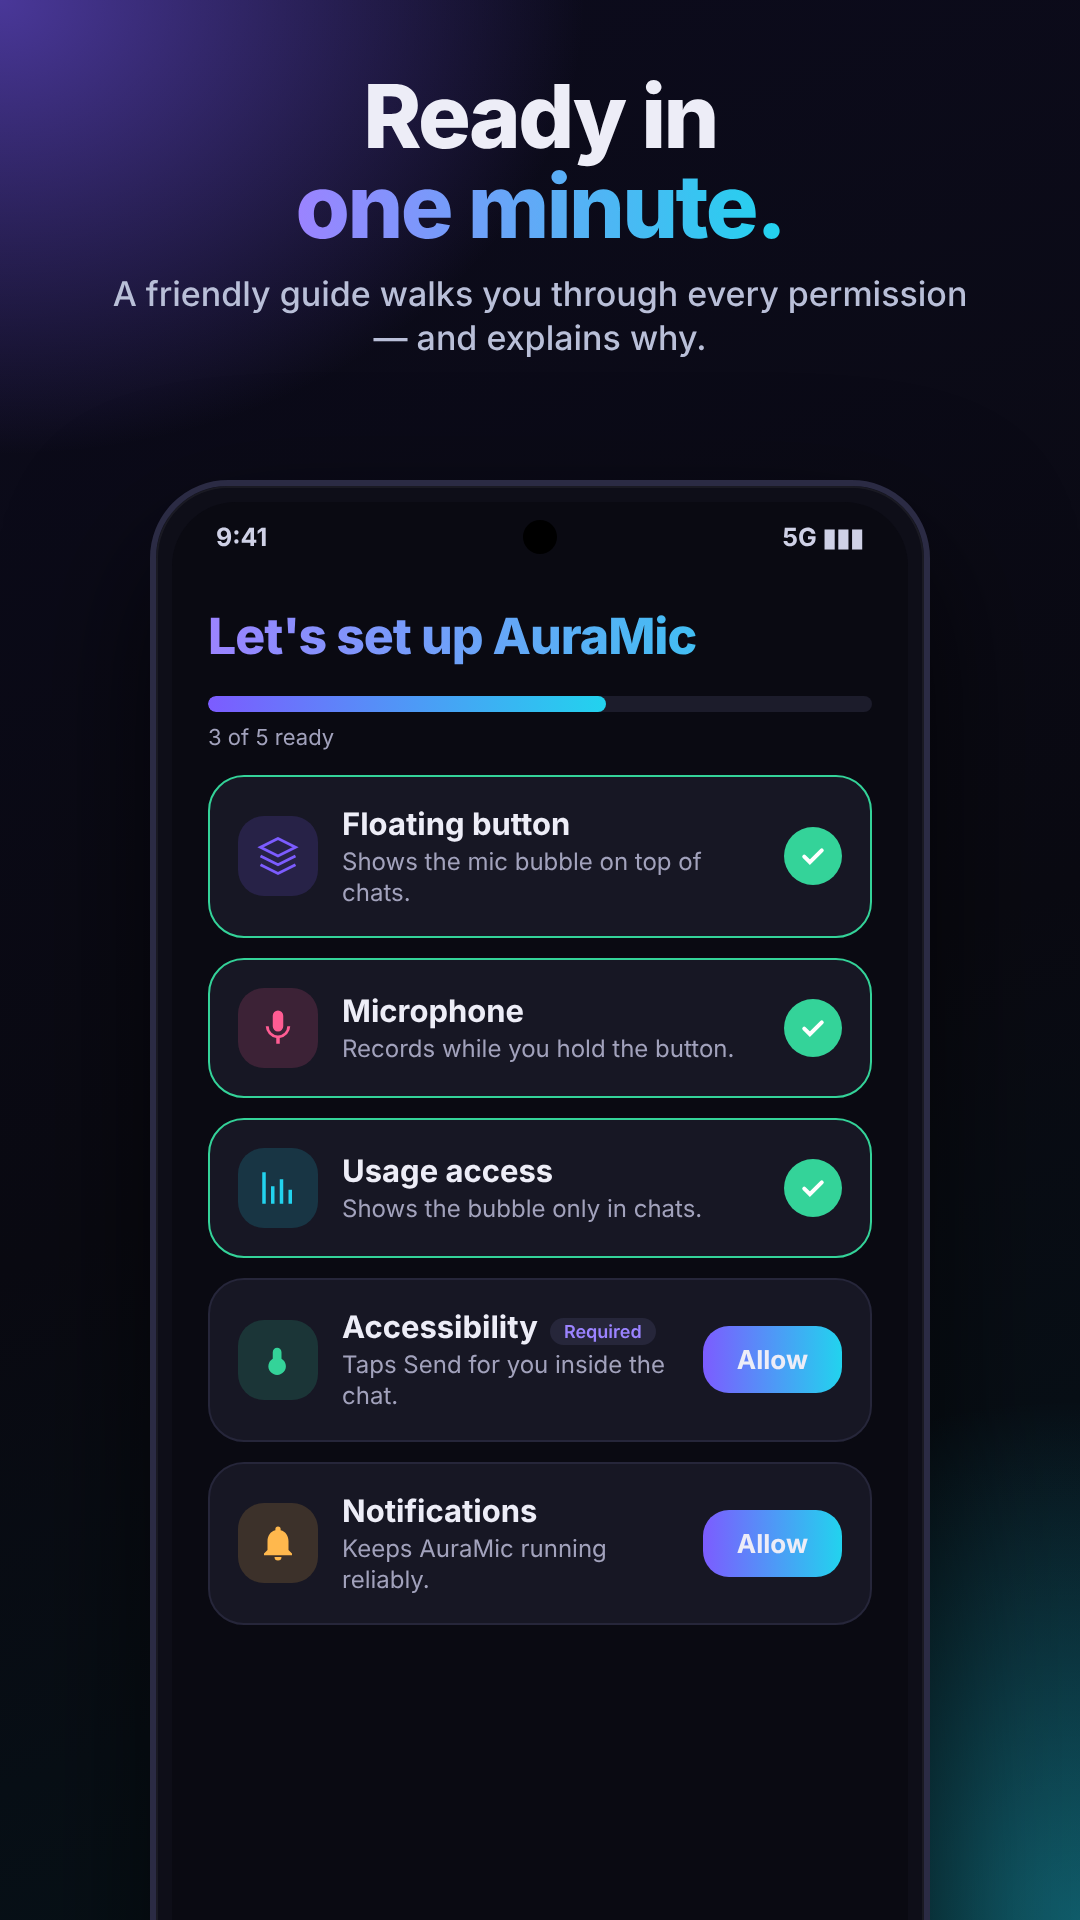
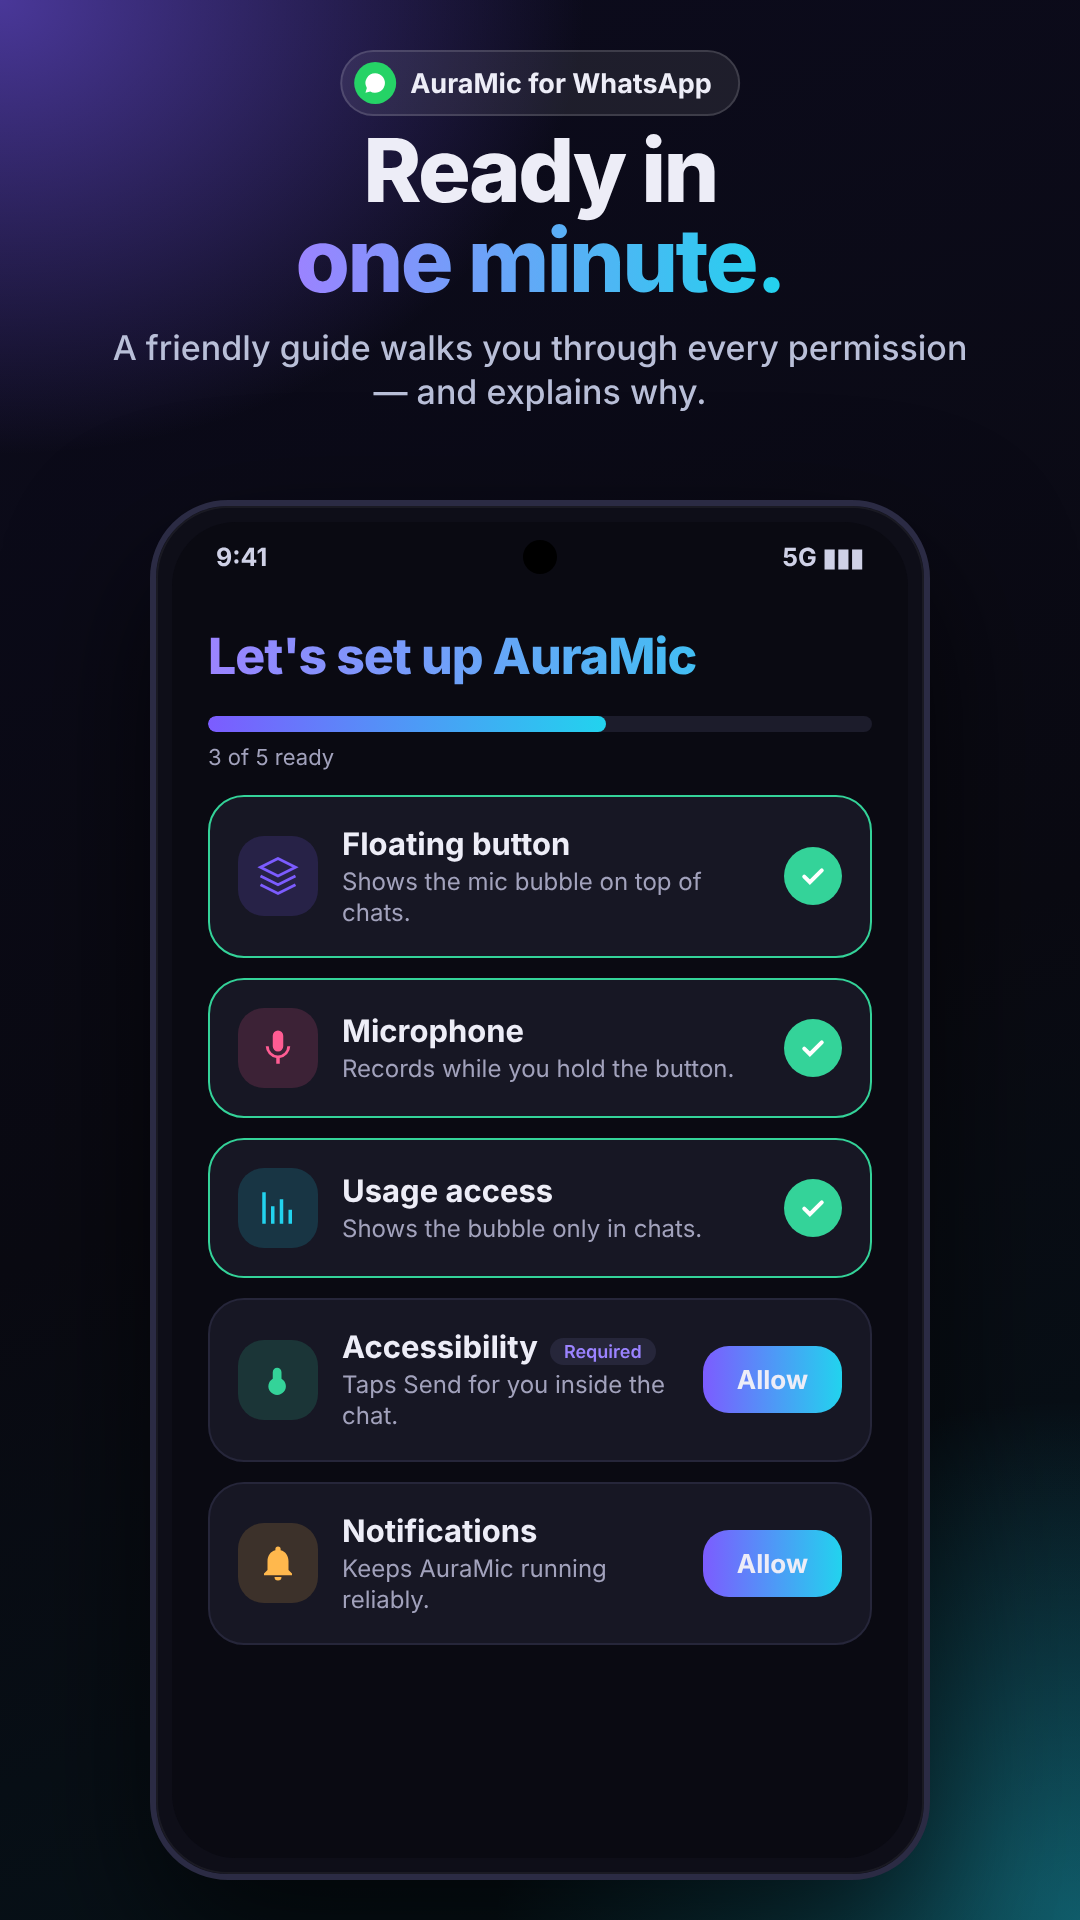
Play screenshots: WhatsApp-style chat mock-ups with AuraMic mic on the voice button, 'for WhatsApp' tag, full-height phone
Claude-Session: https://claude.ai/code/session_01HuFzeFbapjoqzK2GJRaigU

diff --git a/AuraMic/play_store_assets/screenshots/screens.html b/AuraMic/play_store_assets/screenshots/screens.html
@@ -4,7 +4,7 @@
 <!--
   Eight Play Store screenshot scenes, 1080x1920 each. Open screens.html#1 ... #8 in a browser, or run
   ../generate_assets.py to render all of them to PNG. Pure HTML/CSS/JS - edit freely.
-  The chat UI is a generic messaging mock-up (no third-party branding).
+  The chat UI is an original messaging mock-up in a WhatsApp-like dark style (no third-party logo or artwork).
 -->
 <style>
   :root{--v:#7C5CFF;--v2:#9B83FF;--c:#22D3EE;--pink:#FF5C93;--mint:#34D399;--bg:#0A0A12;--s1:#12121C;--s2:#171724;--s3:#1E1E2D;--line:#26263A;--t:#EDEDF7;--mut:#A2A2BC}
@@ -16,11 +16,11 @@
      radial-gradient(900px 700px at 0% 0%, rgba(124,92,255,.55), transparent 65%),
      radial-gradient(900px 800px at 100% 100%, rgba(34,211,238,.38), transparent 65%),
      linear-gradient(160deg,#0C0B1D,#0A0A12 55%,#06141A)}
-  .cap{position:absolute;left:60px;right:60px;top:72px;text-align:center}
+  .cap{position:absolute;left:60px;right:60px;top:126px;text-align:center}
   .cap h2{font-size:88px;line-height:1.02;font-weight:800;letter-spacing:-2.6px}
   .cap h2 span{background:linear-gradient(90deg,#9B83FF,#22D3EE);-webkit-background-clip:text;background-clip:text;color:transparent}
   .cap p{margin:20px auto 0;font-size:34px;line-height:1.3;color:#b9bfd8;font-weight:500;max-width:880px}
-  .phone{position:absolute;left:150px;top:480px;width:780px;height:1700px;border-radius:78px;background:#0E0E18;border:6px solid #2b2b44;
+  .phone{position:absolute;left:150px;top:500px;width:780px;height:1380px;border-radius:78px;background:#0E0E18;border:6px solid #2b2b44;
     box-shadow:0 60px 140px rgba(0,0,0,.65),0 0 0 2px rgba(255,255,255,.05) inset}
   .screen{position:absolute;inset:16px;border-radius:64px;background:var(--bg);overflow:hidden}
   .sb{height:70px;display:flex;justify-content:space-between;align-items:center;padding:0 44px;font-size:25px;font-weight:700;color:#cfd1e6}
@@ -82,25 +82,58 @@
   .step{flex:1;text-align:center;border-radius:34px;background:var(--s2);border:2px solid var(--line);padding:28px 10px}
   .step .bubble{position:relative;width:110px;height:110px;margin:0 auto 22px}
   .step b{font-size:27px;display:block}.step small{font-size:21px;color:var(--mut)}
+
+  /* "for WhatsApp" tag */
+  .for{position:absolute;left:50%;top:50px;transform:translateX(-50%);display:flex;align-items:center;gap:14px;padding:10px 26px 10px 12px;border-radius:99px;background:rgba(255,255,255,.08);border:2px solid rgba(255,255,255,.14);font-size:27px;font-weight:700;white-space:nowrap}
+  .for i{display:grid;place-items:center;width:42px;height:42px;border-radius:50%;background:#25D366}
+  /* WhatsApp-style dark chat */
+  .wa{position:absolute;left:0;right:0;top:70px;bottom:0;background-color:#0B141A;background-image:radial-gradient(rgba(255,255,255,.045) 2.5px,transparent 3.5px),radial-gradient(rgba(255,255,255,.03) 2px,transparent 3px);background-size:54px 54px,54px 54px;background-position:0 0,27px 27px}
+  .wa-top{height:122px;background:#1F2C34;display:flex;align-items:center;gap:14px;padding:0 22px}
+  .wa-top .av{width:72px;height:72px;border-radius:50%;background:linear-gradient(135deg,#6B7C85,#3B4A54);display:grid;place-items:center;font-weight:800;font-size:30px}
+  .wa-top .nm{flex:1}.wa-top b{font-size:31px;display:block}.wa-top small{font-size:22px;color:#8696A0}
+  .wa-top .ic{display:flex;gap:30px;align-items:center}
+  .wa-body{padding:26px 22px;display:flex;flex-direction:column;gap:16px}
+  .wm{max-width:480px;padding:16px 22px 14px;border-radius:24px 24px 24px 6px;background:#202C33;font-size:28px;line-height:1.35;position:relative}
+  .wm.me{align-self:flex-end;border-radius:24px 24px 6px 24px;background:#005C4B}
+  .wm small{display:block;text-align:right;font-size:19px;color:#8fa3ad;margin-top:4px}
+  .wvn{align-self:flex-end;display:flex;align-items:center;gap:14px;padding:16px 20px 12px;border-radius:24px 24px 6px 24px;background:#005C4B;width:500px;flex-wrap:wrap}
+  .wvn .av2{width:64px;height:64px;border-radius:50%;background:linear-gradient(135deg,#6B7C85,#3B4A54);flex:none}
+  .wvn .play{width:0;height:0;border-left:24px solid #fff;border-top:15px solid transparent;border-bottom:15px solid transparent}
+  .wvn .bars{display:flex;gap:4px;align-items:center;height:52px;flex:1}.wvn .bars i{display:block;width:5px;border-radius:3px;background:#a9d8cd}
+  .wvn .meta{width:100%;display:flex;justify-content:space-between;font-size:19px;color:#a9d8cd}
+  .wa-comp{position:absolute;left:18px;right:18px;bottom:40px;height:100px;display:flex;gap:14px;align-items:center}
+  .wa-in{flex:1;height:100px;border-radius:50px;background:#1F2C34;display:flex;align-items:center;gap:22px;padding:0 28px;color:#8696A0;font-size:29px}
+  .wa-in span{flex:1}
+  .wa-mic{width:100px;height:100px;border-radius:50%;background:#00A884;flex:none;display:grid;place-items:center}
+  .wa-rec{flex:1;height:100px;border-radius:50px;background:#1F2C34;display:flex;align-items:center;gap:18px;padding:0 30px;font-size:28px;font-weight:600;white-space:nowrap}
+  .wa-rec .rd{width:20px;height:20px;border-radius:50%;background:#FF4D6D}
+  .wa-rec .mut{color:#8696A0;font-weight:500;font-size:26px}
+  .auramic{position:absolute;width:100px;height:100px;border-radius:50%;background:linear-gradient(135deg,var(--v),var(--c));display:grid;place-items:center;box-shadow:0 10px 30px rgba(124,92,255,.5)}
+  .auramic::after{content:"";position:absolute;inset:0;border-radius:50%;background:radial-gradient(circle at 32% 25%,rgba(255,255,255,.35),transparent 60%)}
+  .auramic svg{position:relative;z-index:2}
+  .auramic.rec{background:linear-gradient(135deg,var(--v),var(--pink));transform:scale(1.2);box-shadow:0 14px 44px rgba(255,92,147,.55)}
+  .auramic .ring{inset:-24px}.auramic .ring.r2{inset:-50px}
+  .tag{position:absolute;display:flex;align-items:center;gap:12px;padding:14px 26px;border-radius:99px;background:rgba(16,16,24,.95);border:2px solid #2b2b44;font-size:25px;font-weight:700;white-space:nowrap;box-shadow:0 14px 40px rgba(0,0,0,.5)}
 </style></head>
 <body>
 
 <!-- ============== 1. HOLD TO RECORD ============== -->
 <section class="scene" id="s1"><div class="bgfx"></div>
-  <div class="cap"><h2>Hold. Speak.<br><span>Release.</span></h2><p>A floating mic that lives on top of your chats — only when you need it.</p></div>
+  <div class="cap"><h2>Hold. Speak.<br><span>Release.</span></h2><p>The AuraMic mic sits right on WhatsApp's voice button. Hold, speak, let go.</p></div>
   <div class="phone"><div class="screen"><div class="notch"></div>
-    <div class="sb"><span>9:41</span><span>5G ▮▮▮</span></div>
-    <div class="chat-top"><div class="av">A</div><div><b>Aarav</b><small>online</small></div></div>
-    <div class="chat-body">
-      <div class="m">Hey! Can you send me the details?</div>
-      <div class="m me">Sure — recording a voice note now 🎙</div>
-      <div class="m">Great, I'm on the train, noisy as always 😅</div>
-    </div>
-    <div class="composer">Message</div>
-    <div class="pill" style="left:92px;top:1000px"><span class="rd"></span><b>0:07</b><span class="wv" id="wv1"></span><span class="mut">◀ Slide to cancel</span></div>
-    <div class="bubble rec" style="left:470px;top:1130px"><div class="ring r3"></div><div class="ring r2"></div><div class="ring"></div>
-      <div class="disc"><svg width="70" height="70" viewBox="0 0 24 24" fill="#fff"><path d="M12 14a3 3 0 0 0 3-3V5a3 3 0 0 0-6 0v6a3 3 0 0 0 3 3zm5.3-3a5.3 5.3 0 0 1-10.6 0H5a7 7 0 0 0 6 6.72V21h2v-3.28A7 7 0 0 0 19 11z"/></svg></div></div>
-  </div></div>
+    <div class="sb" style="position:relative;z-index:3"><span>9:41</span><span>5G ▮▮▮</span></div>
+    <div class="wa"><div class="wa-top"><svg width="34" height="34" viewBox="0 0 24 24" fill="none" stroke="#E9EDEF" stroke-width="2.4" stroke-linecap="round" stroke-linejoin="round"><path d="M15 5l-7 7 7 7"/></svg><div class="av">A</div><div class="nm"><b>Aarav</b><small>online</small></div><div class="ic"><svg width="38" height="38" viewBox="0 0 24 24" fill="#E9EDEF"><path d="M4 7a2 2 0 0 1 2-2h8a2 2 0 0 1 2 2v3l5-3v10l-5-3v3a2 2 0 0 1-2 2H6a2 2 0 0 1-2-2z"/></svg><svg width="36" height="36" viewBox="0 0 24 24" fill="#E9EDEF"><path d="M6.6 10.8a15 15 0 0 0 6.6 6.6l2.2-2.2a1 1 0 0 1 1-.25 11 11 0 0 0 3.5.56 1 1 0 0 1 1 1V20a1 1 0 0 1-1 1A17 17 0 0 1 3 4a1 1 0 0 1 1-1h3.5a1 1 0 0 1 1 1c0 1.2.2 2.4.56 3.5a1 1 0 0 1-.25 1z"/></svg><svg width="32" height="32" viewBox="0 0 24 24" fill="#E9EDEF"><circle cx="12" cy="5" r="2"/><circle cx="12" cy="12" r="2"/><circle cx="12" cy="19" r="2"/></svg></div></div>
+      <div class="wa-body">
+        <div class="wm">Good morning! 👋<small>9:12</small></div>
+        <div class="wm me">Morning! Did the client reply?<small>9:13 ✓✓</small></div>
+        <div class="wm">Yes, call me when you reach.<small>9:30</small></div>
+        <div class="wm">Hey! Can you send me the details?<small>9:40</small></div>
+        <div class="wm me">Sure, sending a voice note now 🎙<small>9:40 ✓✓</small></div>
+        <div class="wm">Great, I'm on the train, noisy as always 😅<small>9:41</small></div>
+      </div>
+      <div class="wa-comp"><div class="wa-rec"><span class="rd"></span><b>0:07</b><span class="wv" id="wv1"></span><span class="mut">◀ Slide to cancel</span></div><div class="wa-mic"></div>
+        <div class="auramic rec" style="right:22px;top:0"><div class="ring r2"></div><div class="ring"></div><svg width="52" height="52" viewBox="0 0 24 24" fill="#fff"><path d="M12 14a3 3 0 0 0 3-3V5a3 3 0 0 0-6 0v6a3 3 0 0 0 3 3zm5.3-3a5.3 5.3 0 0 1-10.6 0H5a7 7 0 0 0 6 6.72V21h2v-3.28A7 7 0 0 0 19 11z"/></svg></div></div>
+    </div></div></div>
 </section>
 
 <!-- ============== 2. NOISE GONE ============== -->
@@ -130,20 +163,22 @@
 
 <!-- ============== 3. AUTO SEND ============== -->
 <section class="scene" id="s3"><div class="bgfx"></div>
-  <div class="cap"><h2>Sent for you.<br><span>Zero extra taps.</span></h2><p>AuraMic picks the chat and taps Send — you never leave the conversation.</p></div>
+  <div class="cap"><h2>Sent for you.<br><span>Zero extra taps.</span></h2><p>AuraMic picks the chat and taps Send, so you never leave the conversation.</p></div>
   <div class="phone"><div class="screen"><div class="notch"></div>
-    <div class="sb"><span>9:41</span><span>5G ▮▮▮</span></div>
-    <div class="chat-top"><div class="av">A</div><div><b>Aarav</b><small>online</small></div></div>
-    <div class="chat-body">
-      <div class="m">Hey! Can you send me the details?</div>
-      <div class="vn"><div class="play"></div><div class="bars" id="vb3"></div><em>0:07</em></div>
-      <div class="ticks">✓✓ Delivered</div>
-      <div class="m">Crystal clear, thanks! 🙌</div>
-    </div>
-    <div class="composer">Message</div>
-    <div class="pill" style="left:290px;top:1096px"><span style="color:#34D399;font-size:34px;line-height:1">✓</span><b>Sent!</b></div>
-    <div class="bubble" style="left:560px;top:1190px"><div class="disc" style="background:linear-gradient(135deg,#34D399,#10B981);box-shadow:0 20px 60px rgba(52,211,153,.5)"><svg width="70" height="70" viewBox="0 0 24 24" fill="none" stroke="#fff" stroke-width="3" stroke-linecap="round" stroke-linejoin="round"><path d="M5 12.5l4.5 4.5L19 7.5"/></svg></div></div>
-  </div></div>
+    <div class="sb" style="position:relative;z-index:3"><span>9:41</span><span>5G ▮▮▮</span></div>
+    <div class="wa"><div class="wa-top"><svg width="34" height="34" viewBox="0 0 24 24" fill="none" stroke="#E9EDEF" stroke-width="2.4" stroke-linecap="round" stroke-linejoin="round"><path d="M15 5l-7 7 7 7"/></svg><div class="av">A</div><div class="nm"><b>Aarav</b><small>online</small></div><div class="ic"><svg width="38" height="38" viewBox="0 0 24 24" fill="#E9EDEF"><path d="M4 7a2 2 0 0 1 2-2h8a2 2 0 0 1 2 2v3l5-3v10l-5-3v3a2 2 0 0 1-2 2H6a2 2 0 0 1-2-2z"/></svg><svg width="36" height="36" viewBox="0 0 24 24" fill="#E9EDEF"><path d="M6.6 10.8a15 15 0 0 0 6.6 6.6l2.2-2.2a1 1 0 0 1 1-.25 11 11 0 0 0 3.5.56 1 1 0 0 1 1 1V20a1 1 0 0 1-1 1A17 17 0 0 1 3 4a1 1 0 0 1 1-1h3.5a1 1 0 0 1 1 1c0 1.2.2 2.4.56 3.5a1 1 0 0 1-.25 1z"/></svg><svg width="32" height="32" viewBox="0 0 24 24" fill="#E9EDEF"><circle cx="12" cy="5" r="2"/><circle cx="12" cy="12" r="2"/><circle cx="12" cy="19" r="2"/></svg></div></div>
+      <div class="wa-body">
+        <div class="wm">Good morning! 👋<small>9:12</small></div>
+        <div class="wm me">Morning! Did the client reply?<small>9:13 ✓✓</small></div>
+        <div class="wm">Yes, call me when you reach.<small>9:30</small></div>
+        <div class="wm">Hey! Can you send me the details?<small>9:40</small></div>
+        <div class="wvn"><div class="av2"></div><div class="play"></div><div class="bars" id="vb3"></div><div class="meta"><span>0:07</span><span>9:41 <span style="color:#53BDEB">✓✓</span></span></div></div>
+        <div class="wm">Crystal clear, thanks! 🙌<small>9:41</small></div>
+      </div>
+      <div class="tag" style="left:50%;transform:translateX(-50%);bottom:190px"><span style="color:#34D399;font-size:30px;line-height:1">✓</span> Voice note sent</div>
+      <div class="wa-comp"><div class="wa-in"><svg width="40" height="40" viewBox="0 0 24 24" fill="none" stroke="#8696A0" stroke-width="2"><circle cx="12" cy="12" r="9"/><path d="M8 14a4.5 4.5 0 0 0 8 0M9 9.5h.01M15 9.5h.01" stroke-linecap="round"/></svg><span>Message</span><svg width="38" height="38" viewBox="0 0 24 24" fill="none" stroke="#8696A0" stroke-width="2" stroke-linecap="round"><path d="M16.5 7.5l-7.8 7.8a2.5 2.5 0 0 0 3.5 3.5l8-8a4.5 4.5 0 0 0-6.4-6.4l-8 8a6.5 6.5 0 0 0 9.2 9.2"/></svg><svg width="40" height="40" viewBox="0 0 24 24" fill="none" stroke="#8696A0" stroke-width="2"><path d="M4 8h3l1.5-2h7L17 8h3v11H4z"/><circle cx="12" cy="13" r="3.5"/></svg></div><div class="wa-mic"></div>
+        <div class="auramic" style="right:0;top:0"><svg width="52" height="52" viewBox="0 0 24 24" fill="#fff"><path d="M12 14a3 3 0 0 0 3-3V5a3 3 0 0 0-6 0v6a3 3 0 0 0 3 3zm5.3-3a5.3 5.3 0 0 1-10.6 0H5a7 7 0 0 0 6 6.72V21h2v-3.28A7 7 0 0 0 19 11z"/></svg></div></div>
+    </div></div></div>
 </section>
 
 <!-- ============== 4. PRIVACY ============== -->
@@ -232,12 +267,17 @@
         <div class="row" style="padding:22px 0;border-bottom:2px solid var(--line)"><div class="badge" style="background:rgba(52,211,153,.18)"><svg viewBox="0 0 24 24" fill="#34D399"><path d="M12 3a9 9 0 0 0-7.7 13.6L3 21l4.5-1.2A9 9 0 1 0 12 3z"/></svg></div><div style="flex:1"><div class="t">WhatsApp</div><div class="d">Hold to record · release to send</div></div><div class="ok" style="width:70px;border-radius:40px;height:42px;background:var(--v)"></div></div>
         <div class="row" style="padding:22px 0"><div class="badge" style="background:rgba(52,211,153,.18)"><svg viewBox="0 0 24 24" fill="#34D399"><path d="M12 3a9 9 0 0 0-7.7 13.6L3 21l4.5-1.2A9 9 0 1 0 12 3z"/></svg></div><div style="flex:1"><div class="t">WhatsApp Business</div><div class="d">Hold to record · release to send</div></div><div class="ok" style="width:70px;border-radius:40px;height:42px;background:var(--v)"></div></div>
       </div>
+      <div class="card" style="margin-top:22px;padding:26px"><div class="t" style="font-size:28px;margin-bottom:18px">Right on WhatsApp's voice button</div>
+        <div style="position:relative;height:100px;display:flex;gap:14px;align-items:center"><div class="wa-in" style="background:#1F2C34;height:100px"><svg width="40" height="40" viewBox="0 0 24 24" fill="none" stroke="#8696A0" stroke-width="2"><circle cx="12" cy="12" r="9"/><path d="M8 14a4.5 4.5 0 0 0 8 0M9 9.5h.01M15 9.5h.01" stroke-linecap="round"/></svg><span>Message</span><svg width="38" height="38" viewBox="0 0 24 24" fill="none" stroke="#8696A0" stroke-width="2" stroke-linecap="round"><path d="M16.5 7.5l-7.8 7.8a2.5 2.5 0 0 0 3.5 3.5l8-8a4.5 4.5 0 0 0-6.4-6.4l-8 8a6.5 6.5 0 0 0 9.2 9.2"/></svg><svg width="40" height="40" viewBox="0 0 24 24" fill="none" stroke="#8696A0" stroke-width="2"><path d="M4 8h3l1.5-2h7L17 8h3v11H4z"/><circle cx="12" cy="13" r="3.5"/></svg></div><div class="wa-mic" style="visibility:hidden"></div>
+          <div class="auramic" style="right:0;top:0"><svg width="52" height="52" viewBox="0 0 24 24" fill="#fff"><path d="M12 14a3 3 0 0 0 3-3V5a3 3 0 0 0-6 0v6a3 3 0 0 0 3 3zm5.3-3a5.3 5.3 0 0 1-10.6 0H5a7 7 0 0 0 6 6.72V21h2v-3.28A7 7 0 0 0 19 11z"/></svg></div></div>
+        <div class="d" style="font-size:24px;margin-top:16px">Tap for a hint · hold to record · slide left to cancel</div></div>
       <div class="card" style="margin-top:22px"><div class="row"><div class="badge" style="background:rgba(255,184,77,.18)"><svg viewBox="0 0 24 24" fill="#FFB84D"><path d="M12 2l2.4 6.6L21 11l-6.6 2.4L12 20l-2.4-6.6L3 11l6.6-2.4z"/></svg></div><div><div class="t">Cleaned on your phone</div><div class="d">Audio never leaves your device</div></div></div></div>
     </div>
   </div></div>
 </section>
 
 <script>
+  document.querySelectorAll('.scene').forEach(sc=>{const f=document.createElement('div');f.className='for';f.innerHTML='<i><svg width="26" height="26" viewBox="0 0 24 24" fill="#fff"><path d="M12 3a9 9 0 0 0-7.7 13.6L3 21l4.5-1.2A9 9 0 1 0 12 3z"/></svg></i>AuraMic for WhatsApp';sc.appendChild(f)});
   let seed=11; const r=()=> (seed=(seed*16807)%2147483647)/2147483647;
   const mk=(id,hs,color)=>{const el=document.getElementById(id); if(!el) return; hs.forEach(h=>{const i=document.createElement('i'); i.style.height=h+'px'; if(color) i.style.background=color; el.appendChild(i)})};
   mk('wv1',[10,18,28,14,32,22,12,26,16,9,24,13],'#22D3EE');

diff --git a/AuraMic/play_store_assets/PLAY_CONSOLE_GUIDE.md b/AuraMic/play_store_assets/PLAY_CONSOLE_GUIDE.md
@@ -60,3 +60,8 @@ The in-app prominent disclosure is already implemented (`disclosure_*` strings; 
 | **Listing** | Generated by `listing/build_listing.py`: WhatsApp / WhatsApp Business only, no unsupported claims, no comparison with other products, independence disclaimer in every language. |
 | **Target API / 64-bit / 16 KB** | targetSdk 36, arm64-v8a + armeabi-v7a, all native libraries aligned to 16 KB pages. |
 | **Android ID allow-list** | `ProAllowlist` gives the developer's own devices free Pro. The ID is app-signing-key specific: install the **Play-signed** build, open Settings -> About -> *Device ID*, and add what it shows. |
+
+## Screenshot / trademark note
+The screenshots show an **original** WhatsApp-style dark chat drawn for AuraMic - no WhatsApp logo, artwork or real screens - plus a generic
+green chat-bubble tag ("AuraMic for WhatsApp"). Naming WhatsApp to say what the app works with is fine; do not use their logo, and keep the
+non-affiliation line in the listing: "WhatsApp is a trademark of its owner. AuraMic is an independent app and is not affiliated with or endorsed by WhatsApp."
